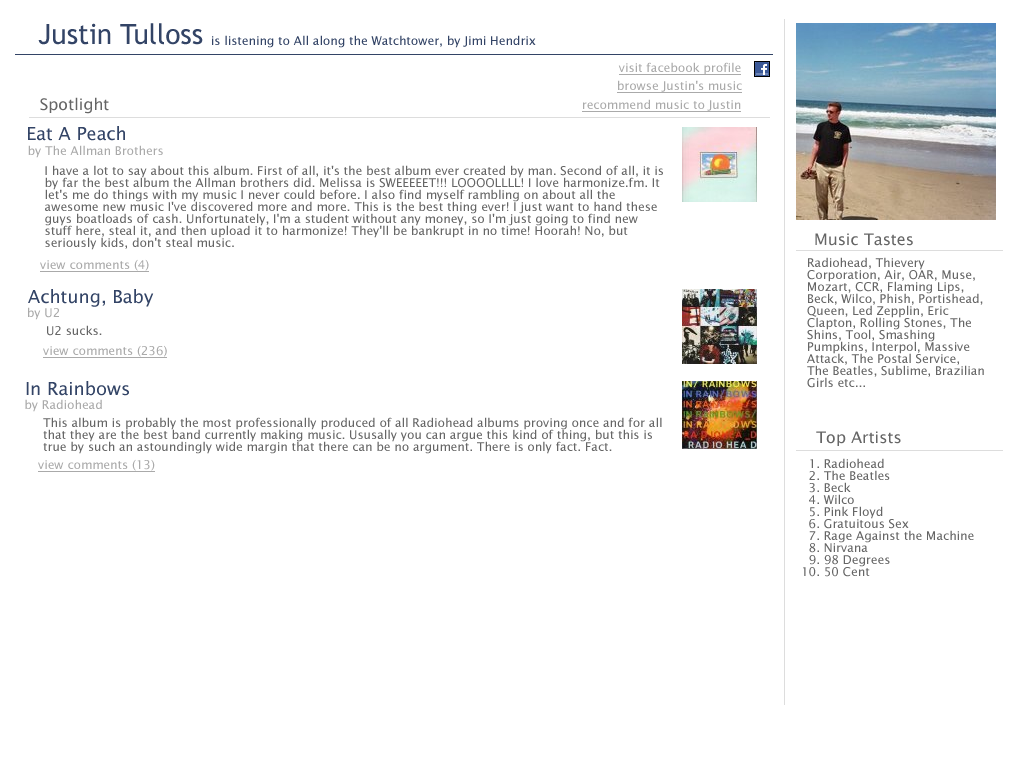
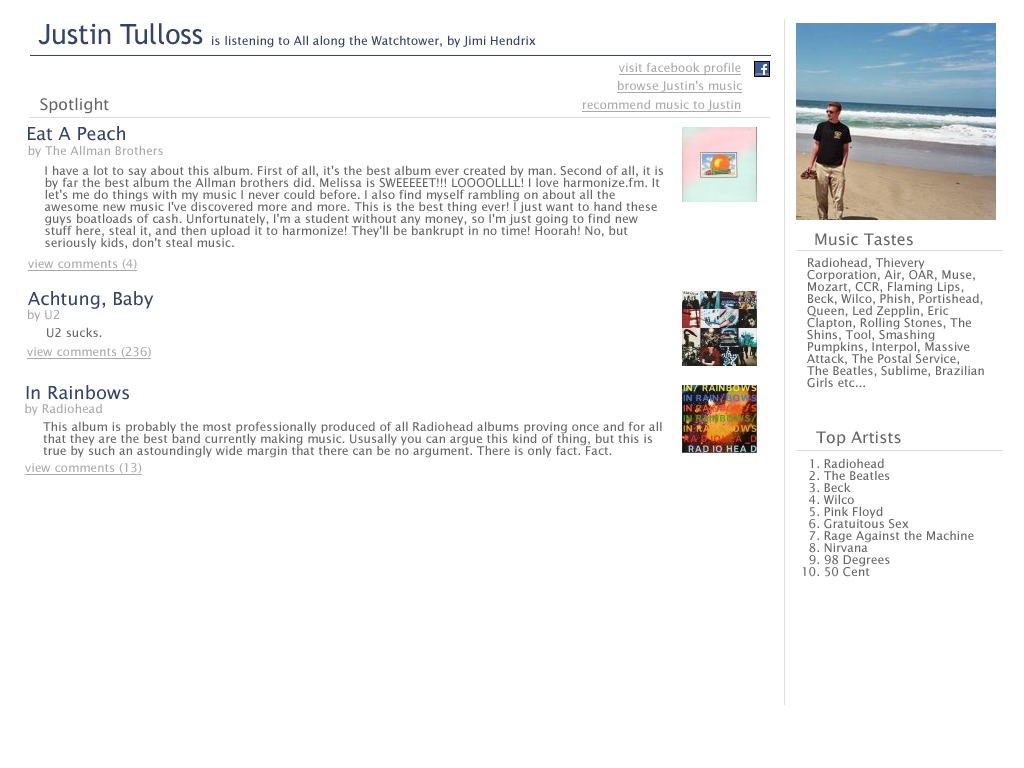
Fixed the feed so it shows *other* people's spotlights. Also fixed the enqueue_album function so it works with others people's albums. Tweaked the profile mockup a little bit.
--HG--
branch : trunk

Changed region(s): [[0.0312, 0.375, 0.75, 0.625], [0.0312, 0.3438, 0.1562, 0.4688]]

diff --git a/masterapp/masterapp/public/javascripts/player/init.js b/masterapp/masterapp/public/javascripts/player/init.js
@@ -78,10 +78,11 @@ function enqueue(recordid)
     Ext.EventObject.stopPropagation();
 }
 
-function enqueue_album(albumid) {
+function enqueue_album(albumid, friendid) {
 	function enqueue_result(response) {
 		var result = eval('('+response.responseText+')');
 		var record = result.data[0];
+		record.Friend_id = friendid;
 		record.get = (function(key) {return record[key];});
 		playqueue.enqueue([record]);
 	}

diff --git a/masterapp/masterapp/controllers/player.py b/masterapp/masterapp/controllers/player.py
@@ -21,6 +21,7 @@ from facebook import FacebookError
 from facebook.wsgi import facebook
 from pylons import config
 import pylons
+from sqlalchemy.sql import or_
 
 from mailer import mail
 import re
@@ -40,8 +41,12 @@ class PlayerController(BaseController):
 
     def _get_feed_entries(self, uid, max_count=20):
         entries = Session.query(BlogEntry)[:max_count]
-        entries.extend(Session.query(Spotlight).\
-                     filter_by(uid=uid)[:max_count])
+        myor = or_()
+        for friend in session['fbfriends']:
+            myor.append(User.fbid == friend)
+
+        entries.extend(Session.query(Spotlight).join(User).filter(myor)\
+                [:max_count])
 
         def sort_by_timestamp(x, y):
             if x.timestamp > y.timestamp:
